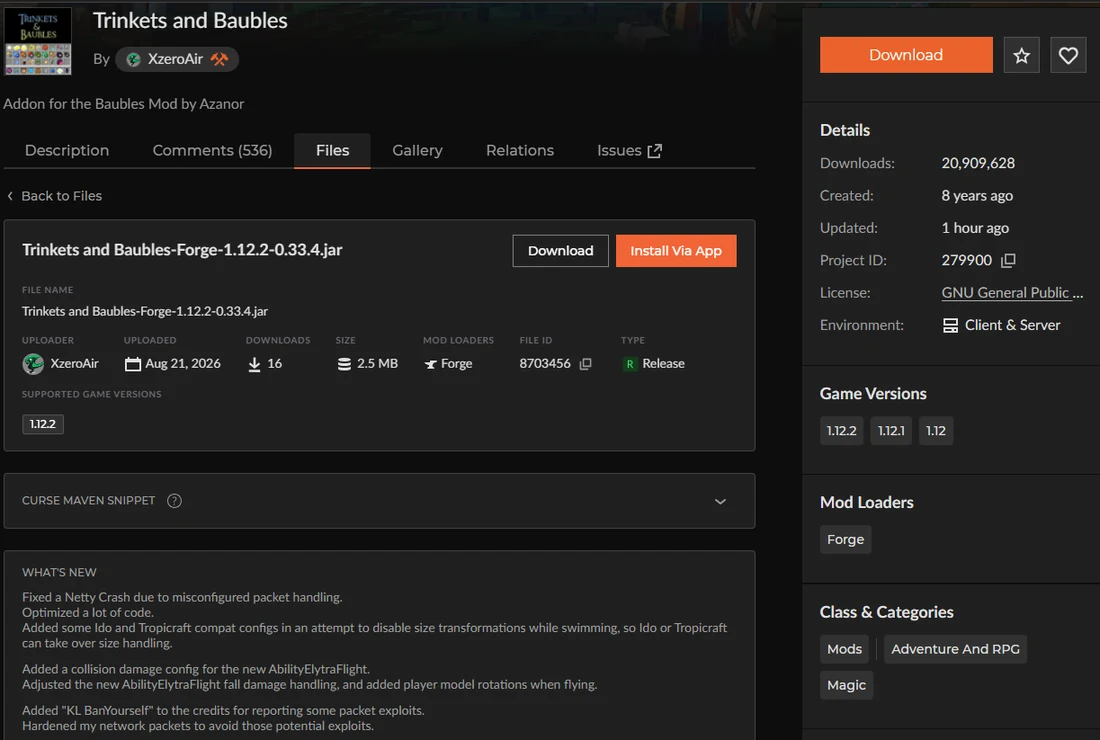
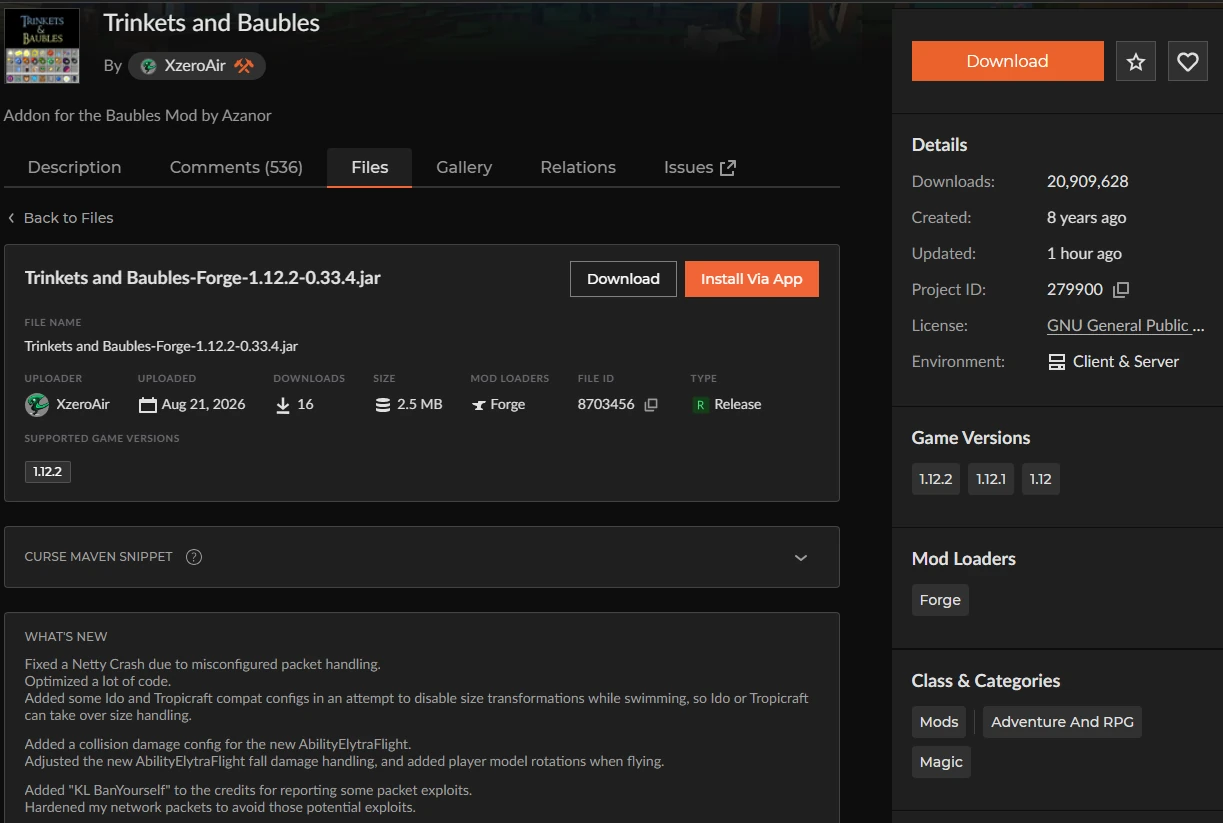
Stop the credit screenshots rendering soft
Two causes, both fixed.

.shot used width: 100%, which stretched the Discord shot past its 566px native
width. Now max-width with width: auto, so nothing upscales. The two wide shots
are back at native resolution (1462 and 1223) rather than resampled to 1100,
which costs 23 KB total and gives retina headroom against the ~640px writeup
column.

The gui theme sets image-rendering: pixelated on body for the bedrock tile, and
it inherits into every image, so the screenshots were getting nearest-neighbour
scaling and their text turned to blocks. Overridden the same way .mug--photo
already was for the portrait.

diff --git a/assets/css/gui.css b/assets/css/gui.css
@@ -525,7 +525,14 @@
 [data-theme="gui"] .fp__u    { font-family: var(--f-stamp); font-size: .42rem; letter-spacing: .1em; color: #9a9a9a; }
 [data-theme="gui"] .fp__name { font-size: 1.3rem; color: #f0f0f0; border-top-color: #444444; }
 [data-theme="gui"] .fp__note { font-size: 1.1rem; color: #b9b9b9; }
-[data-theme="gui"] .shot { border: 2px solid #000; box-shadow: var(--bevel-out); }
+/* body sets image-rendering: pixelated for the bedrock tile and it inherits into
+   these screenshots, turning their text into blocks. Same override .mug--photo
+   already needed for the portrait. */
+[data-theme="gui"] .shot {
+  border: 2px solid #000;
+  box-shadow: var(--bevel-out);
+  image-rendering: auto;
+}
 [data-theme="gui"] .deploy .lbl  { color: #b9b9b9; }
 [data-theme="gui"] .fp__disc { font-family: var(--f-mono); font-size: 1.05rem; color: #b9b9b9; }
 [data-theme="gui"] .deploy a     { color: #7fc4ff; }

diff --git a/assets/css/dossier.css b/assets/css/dossier.css
@@ -595,7 +595,9 @@ a:hover { color: var(--stamp-red); }
 /* evidence screenshots. the sources are dark chrome, so they get a dark mat rather
    than sitting straight on paper. */
 .shot {
-  width: 100%; height: auto;
+  /* max-width, NOT width: the Discord shot is only 566px native and width:100%
+     stretched it past that, which is most of why it looked soft. */
+  max-width: 100%; width: auto; height: auto;
   border: 1px solid var(--ink);
   background: #0d1117;
   margin: .3rem 0 .2rem;
